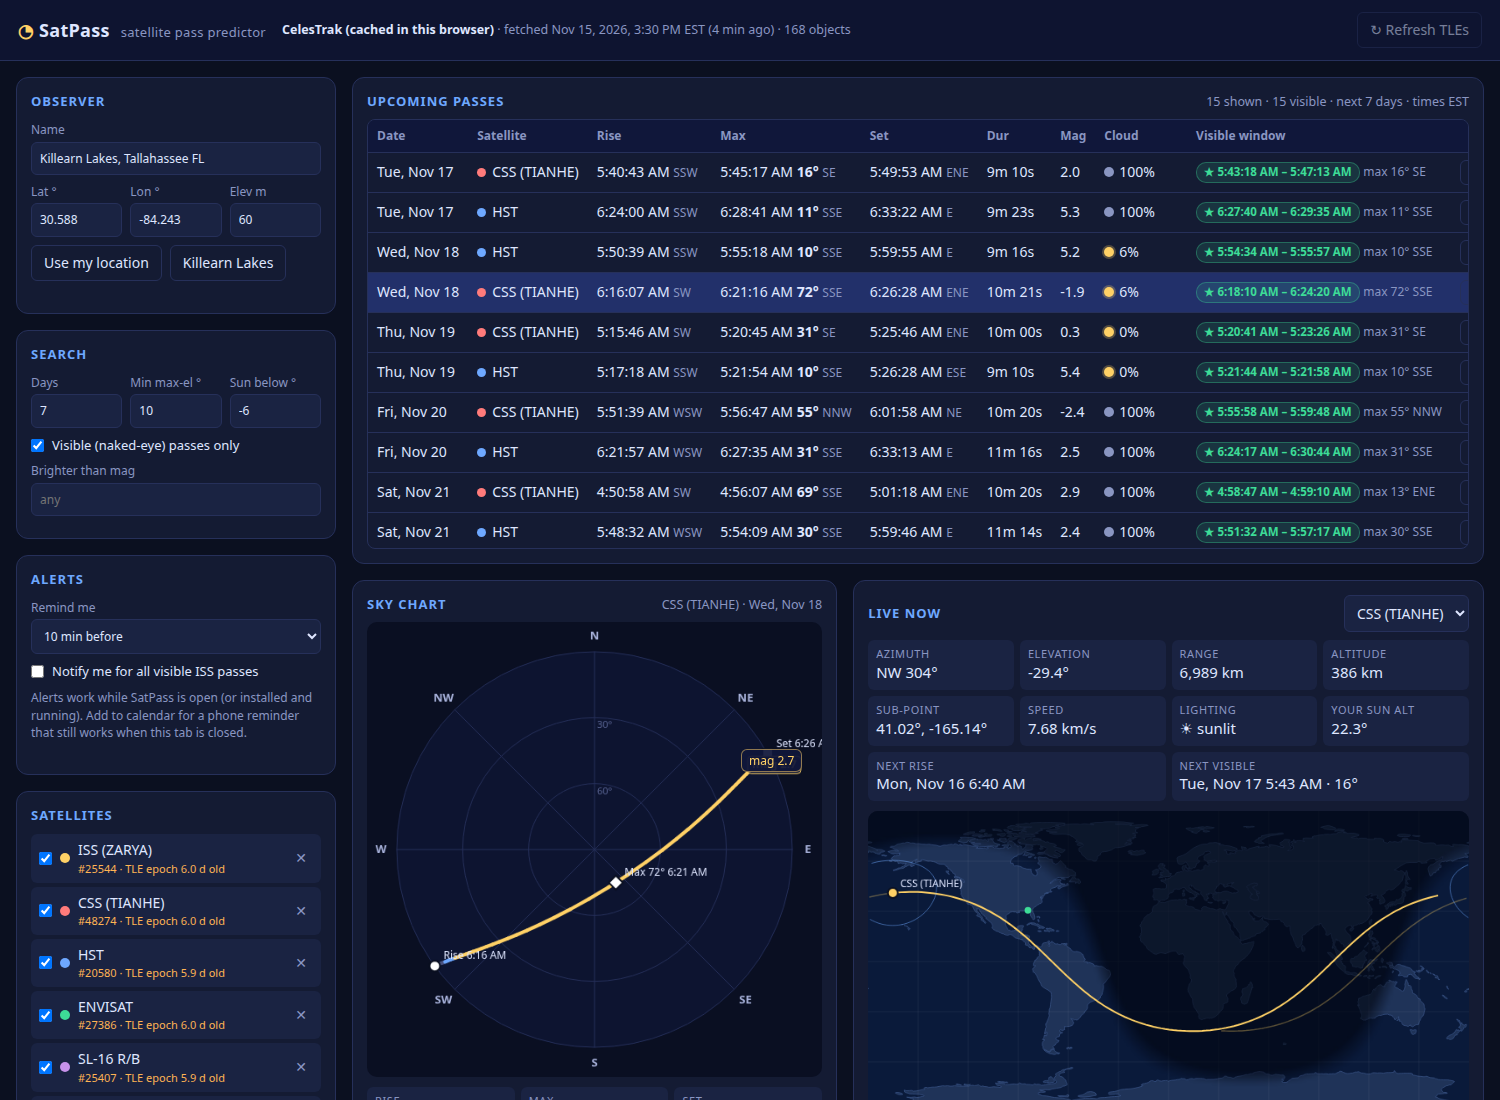
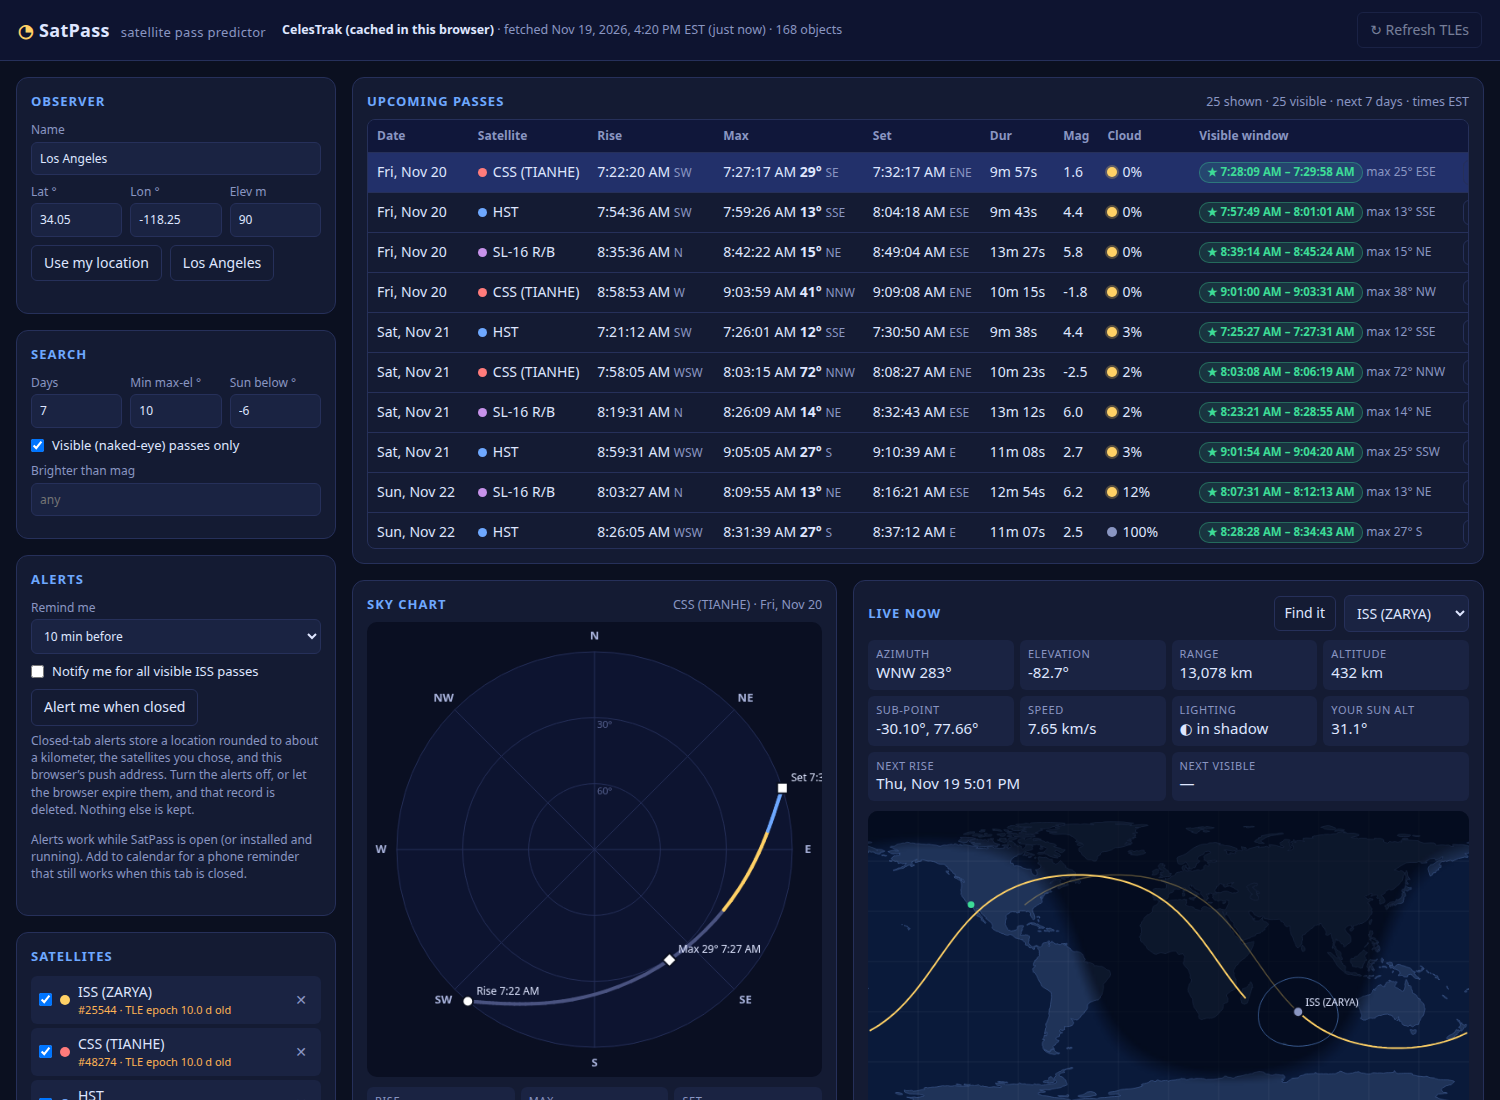
Default the observer to downtown Los Angeles.
New visits and the reset button use Los Angeles (34.05, -118.25, 90 m). A location already saved in this browser still replaces that default.

diff --git a/test/push-location.test.js b/test/push-location.test.js
@@ -13,14 +13,14 @@ const sub = {
 
 test('client rounding matches the worker, at 0.01 degree', () => {
   const samples = [
-    [30.5884, -84.2439],
-    [30.588, -84.243],
+    [34.0523, -118.2537],
+    [34.05, -118.25],
     [40.7128, -74.006],
     [0, 0],
     [-90, -180],
     [90, 180],
     [1.005, -1.005],
-    [-84.245, 30.994]
+    [-33.8688, 151.2093]
   ];
   for (const [lat, lon] of samples) {
     const got = validateSubscription({ subscription: sub, lat, lon, norads: [25544], leadMin: 10 });
@@ -37,47 +37,47 @@ test('client rounding matches the worker, at 0.01 degree', () => {
 });
 
 test('a push sync is needed only when the rounded place differs', () => {
-  const home = { lat: 30.588, lon: -84.243 };
-  const stored = { lat: 30.59, lon: -84.24 };
+  const here = { lat: 34.0523, lon: -118.2537 };
+  const stored = { lat: 34.05, lon: -118.25 };
   assert.equal(Loc.locationNeedsSync(false, { lat: 40, lon: -75 }, stored), false);
-  assert.equal(Loc.locationNeedsSync(true, home, stored), false);
-  assert.equal(Loc.locationNeedsSync(true, { lat: 30.591, lon: -84.244 }, stored), false);
+  assert.equal(Loc.locationNeedsSync(true, here, stored), false);
+  assert.equal(Loc.locationNeedsSync(true, { lat: 34.054, lon: -118.246 }, stored), false);
   assert.equal(Loc.locationNeedsSync(true, { lat: 40.7128, lon: -74.006 }, stored), true);
-  assert.equal(Loc.locationNeedsSync(true, home, null), true);
-  assert.equal(Loc.locationNeedsSync(true, home, {}), true);
+  assert.equal(Loc.locationNeedsSync(true, here, null), true);
+  assert.equal(Loc.locationNeedsSync(true, here, {}), true);
   assert.equal(Loc.locationNeedsSync(true, { lat: 91, lon: 0 }, null), false);
 });
 
 test('the accepted place prefers the server coordinates and stays rounded', () => {
   const fromServer = Loc.acceptedPlace(40.71, -74.01, 40.7128, -74.006);
   assert.deepEqual(fromServer, { lat: 40.71, lon: -74.01 });
-  const fromSent = Loc.acceptedPlace(undefined, undefined, 30.5884, -84.2439);
-  assert.deepEqual(fromSent, { lat: 30.59, lon: -84.24 });
+  const fromSent = Loc.acceptedPlace(undefined, undefined, 34.0523, -118.2537);
+  assert.deepEqual(fromSent, { lat: 34.05, lon: -118.25 });
   assert.deepEqual(Loc.acceptedPlace('', '', 0, 0), { lat: 0, lon: 0 });
   assert.equal(Loc.acceptedPlace(undefined, undefined, 91, 0), null);
 });
 
 test('alert status shows the rounded place, and a failed sync keeps the old one', () => {
-  const synced = { lat: 30.59, lon: -84.24 };
-  const obs = { lat: 30.588, lon: -84.243 };
+  const synced = { lat: 34.05, lon: -118.25 };
+  const obs = { lat: 34.0523, lon: -118.2537 };
   const moved = { lat: 40.7128, lon: -74.006 };
   const quiet = Loc.alertLocationStatus({ on: false, synced, obs: moved, failed: true });
   assert.deepEqual(quiet, { text: '', err: false });
 
   const current = Loc.alertLocationStatus({ on: true, synced, obs, failed: false });
   assert.equal(current.err, false);
-  assert.equal(current.text, 'Closed-tab alerts use 30.59°, -84.24°.');
-  assert.equal(current.text.includes('30.588'), false);
+  assert.equal(current.text, 'Closed-tab alerts use 34.05°, -118.25°.');
+  assert.equal(current.text.includes('34.052'), false);
   assert.equal(/\d+\.\d{3}/.test(current.text), false);
 
   const pending = Loc.alertLocationStatus({ on: true, synced, obs: moved, failed: false });
   assert.equal(pending.err, false);
-  assert.equal(pending.text, 'Closed-tab alerts use 30.59°, -84.24°.');
+  assert.equal(pending.text, 'Closed-tab alerts use 34.05°, -118.25°.');
   assert.equal(pending.text.includes('40.71'), false);
 
   const failed = Loc.alertLocationStatus({ on: true, synced, obs: moved, failed: true });
   assert.equal(failed.err, true);
-  assert.equal(failed.text, 'Closed-tab alerts are still using 30.59°, -84.24°.');
+  assert.equal(failed.text, 'Closed-tab alerts are still using 34.05°, -118.25°.');
   assert.equal(failed.text.includes('40.71'), false);
   assert.equal(/\d+\.\d{3}/.test(failed.text), false);
 

diff --git a/js/app.js b/js/app.js
@@ -11,7 +11,7 @@
   const LS_TLE = 'satpass.tle.v1', LS_SET = 'satpass.settings.v1', LS_CUSTOM = 'satpass.custom.v1', LS_ALERTS = 'satpass.alerts.v1', LS_CLOUD = 'satpass.clouds.v1', LS_PUSH = 'satpass.push.v1';
   const CLOUD_TTL = 3600e3;
   const CELESTRAK_SATCAT = 'https://celestrak.org/satcat/records.php';
-  const HOME = { name: 'Killearn Lakes, Tallahassee FL', lat: 30.588, lon: -84.243, elev: 60 };
+  const HOME = { name: 'Los Angeles', lat: 34.05, lon: -118.25, elev: 90 };
   const ISS_NORAD = 25544;
   const DEFAULT_SATS = [25544, 48274, 20580, 27386, 25407, 22566];
   const PALETTE = ['#ffd166', '#ff7b7b', '#6ea8ff', '#3ddc97', '#c792ea', '#ff9f43', '#4dd0e1', '#f78fb3', '#a3e635', '#e2e8f0'];
@@ -20,6 +20,7 @@
   const load = (k, d) => { try { const v = JSON.parse(localStorage.getItem(k)); return v ?? d; } catch { return d; } };
   const save = (k, v) => { try { localStorage.setItem(k, JSON.stringify(v)); } catch { /* quota / private mode */ } };
 
+  // A place already stored in this browser replaces HOME. Opening the page does not overwrite it.
   const settings = Object.assign({ obs: { ...HOME }, days: 7, minEl: 10, sunMax: -6, visOnly: true, maxMag: null,
     sats: DEFAULT_SATS.map(n => ({ norad: n, on: true })) }, load(LS_SET, {}));
   let custom = load(LS_CUSTOM, {});        // norad -> {name,l1,l2,norad} for objects added by search

diff --git a/test/worker-alerts.test.js b/test/worker-alerts.test.js
@@ -347,8 +347,8 @@ describe('worker push alerts', { concurrency: false }, () => {
       headers: { 'content-type': 'application/json' },
       body: JSON.stringify({
         subscription: sub,
-        lat: 30.5884,
-        lon: -84.2439,
+        lat: 34.0523,
+        lon: -118.2537,
         norads: [25544],
         leadMin: 10,
         visOnly: true,
@@ -364,8 +364,8 @@ describe('worker push alerts', { concurrency: false }, () => {
     const created = await post('/api/push/subscribe');
     assert.equal(created.status, 200);
     const createdBody = await created.json();
-    assert.equal(createdBody.lat, 30.59);
-    assert.equal(createdBody.lon, -84.24);
+    assert.equal(createdBody.lat, 34.05);
+    assert.equal(createdBody.lon, -118.25);
     const id = await subscriptionId(sub.endpoint);
     const stored = await kv.get('sub:' + id, 'json');
     const sentAt = Date.now();

diff --git a/test/pointing.test.js b/test/pointing.test.js
@@ -87,10 +87,10 @@ test('magnetic heading plus east-positive declination wraps to true azimuth', ()
   assert.ok(Math.abs(C.trueAzimuth(10, -20) - 350) < 1e-9);
 });
 
-test('declination near Killearn Lakes is a few degrees west', () => {
-  // magnetic-declination.com lists Tallahassee at about −5.4°. The degree-6
-  // truncation of WMM2025 should land within a degree of that.
-  const d = C.magneticDeclination(30.588, -84.243, 2026.87);
-  assert.ok(d < -4 && d > -7, `declination ${d}`);
+test('declination near downtown Los Angeles is about 11° east', () => {
+  // WMM2025 puts downtown Los Angeles near +11° (east) in late 2026. The degree-6
+  // truncation should land within a degree of that.
+  const d = C.magneticDeclination(34.05, -118.25, 2026.87);
+  assert.ok(d > 10 && d < 12.5, `declination ${d}`);
   assert.ok(C.magneticDeclination(-33.87, 151.21, 2026.87) > 0);
 });

diff --git a/test/push.test.js b/test/push.test.js
@@ -10,12 +10,12 @@ const sub = {
 
 test('subscription validation rounds location and rejects bad input', async () => {
   const ok = validateSubscription({
-    subscription: sub, lat: 30.5884, lon: -84.2439,
+    subscription: sub, lat: 34.0523, lon: -118.2537,
     norads: [25544, 25544, 20580], leadMin: 10, visOnly: true, minMag: 3
   });
   assert.equal(ok.error, undefined);
-  assert.equal(ok.value.lat, 30.59);
-  assert.equal(ok.value.lon, -84.24);
+  assert.equal(ok.value.lat, 34.05);
+  assert.equal(ok.value.lon, -118.25);
   assert.deepEqual(ok.value.norads, [25544, 20580]);
   assert.equal(ok.value.minMag, 3);
   assert.equal(validateSubscription({ subscription: { endpoint: 'http://x', keys: sub.keys } }).error.includes('https'), true);

diff --git a/test/predict.test.js b/test/predict.test.js
@@ -95,7 +95,7 @@ test('observer range from ECI positions matches satellite.js slant range', () =>
   const rec = C.parseTLE(fb.tle).find(r => r.norad === 25544);
   const sat = C.makeSat(rec);
   const when = new Date('2026-11-15T23:30:00Z');
-  const gd = C.observerGd({ lat: 30.588, lon: -84.243, elev: 60 });
+  const gd = C.observerGd({ lat: 34.05, lon: -118.25, elev: 90 });
   const look = C.look(sat, when, gd);
   const obs = C.observerEci(gd, look.gmst);
   const range = Math.hypot(look.eci.x - obs.x, look.eci.y - obs.y, look.eci.z - obs.z);

diff --git a/index.html b/index.html
@@ -35,7 +35,7 @@
       </div>
       <div class="btns">
         <button id="geoBtn" class="ghost">Use my location</button>
-        <button id="resetObsBtn" class="ghost">Killearn Lakes</button>
+        <button id="resetObsBtn" class="ghost">Los Angeles</button>
       </div>
       <div class="hint" id="geoMsg"></div>
     </section>

diff --git a/README.md b/README.md
@@ -6,11 +6,11 @@
 
 ![SatPass, with a pass list, sky chart, and live ground track](docs/screenshot.png)
 
-It opens on Killearn Lakes, north Tallahassee, Florida (30.588° N, 84.243° W, 60 m). Every clock time on the page is Eastern Time (EST or EDT), even if you move the observer somewhere else.
+It opens on downtown Los Angeles (34.05° N, 118.25° W, 90 m). Every clock time on the page is Eastern Time (EST or EDT), even if you move the observer somewhere else.
 
 ## Set your location
 
-Under **Observer**, type a name, latitude, longitude, and elevation in meters. Or click **Use my location** and let the browser fill them in (it will ask permission). **Killearn Lakes** restores the default spot. This browser remembers your place, your filters, and your satellite list.
+Under **Observer**, type a name, latitude, longitude, and elevation in meters. Or click **Use my location** and let the browser fill them in (it will ask permission). **Los Angeles** restores the default spot. This browser remembers your place, your filters, and your satellite list.
 
 ## Add and remove satellites
 
